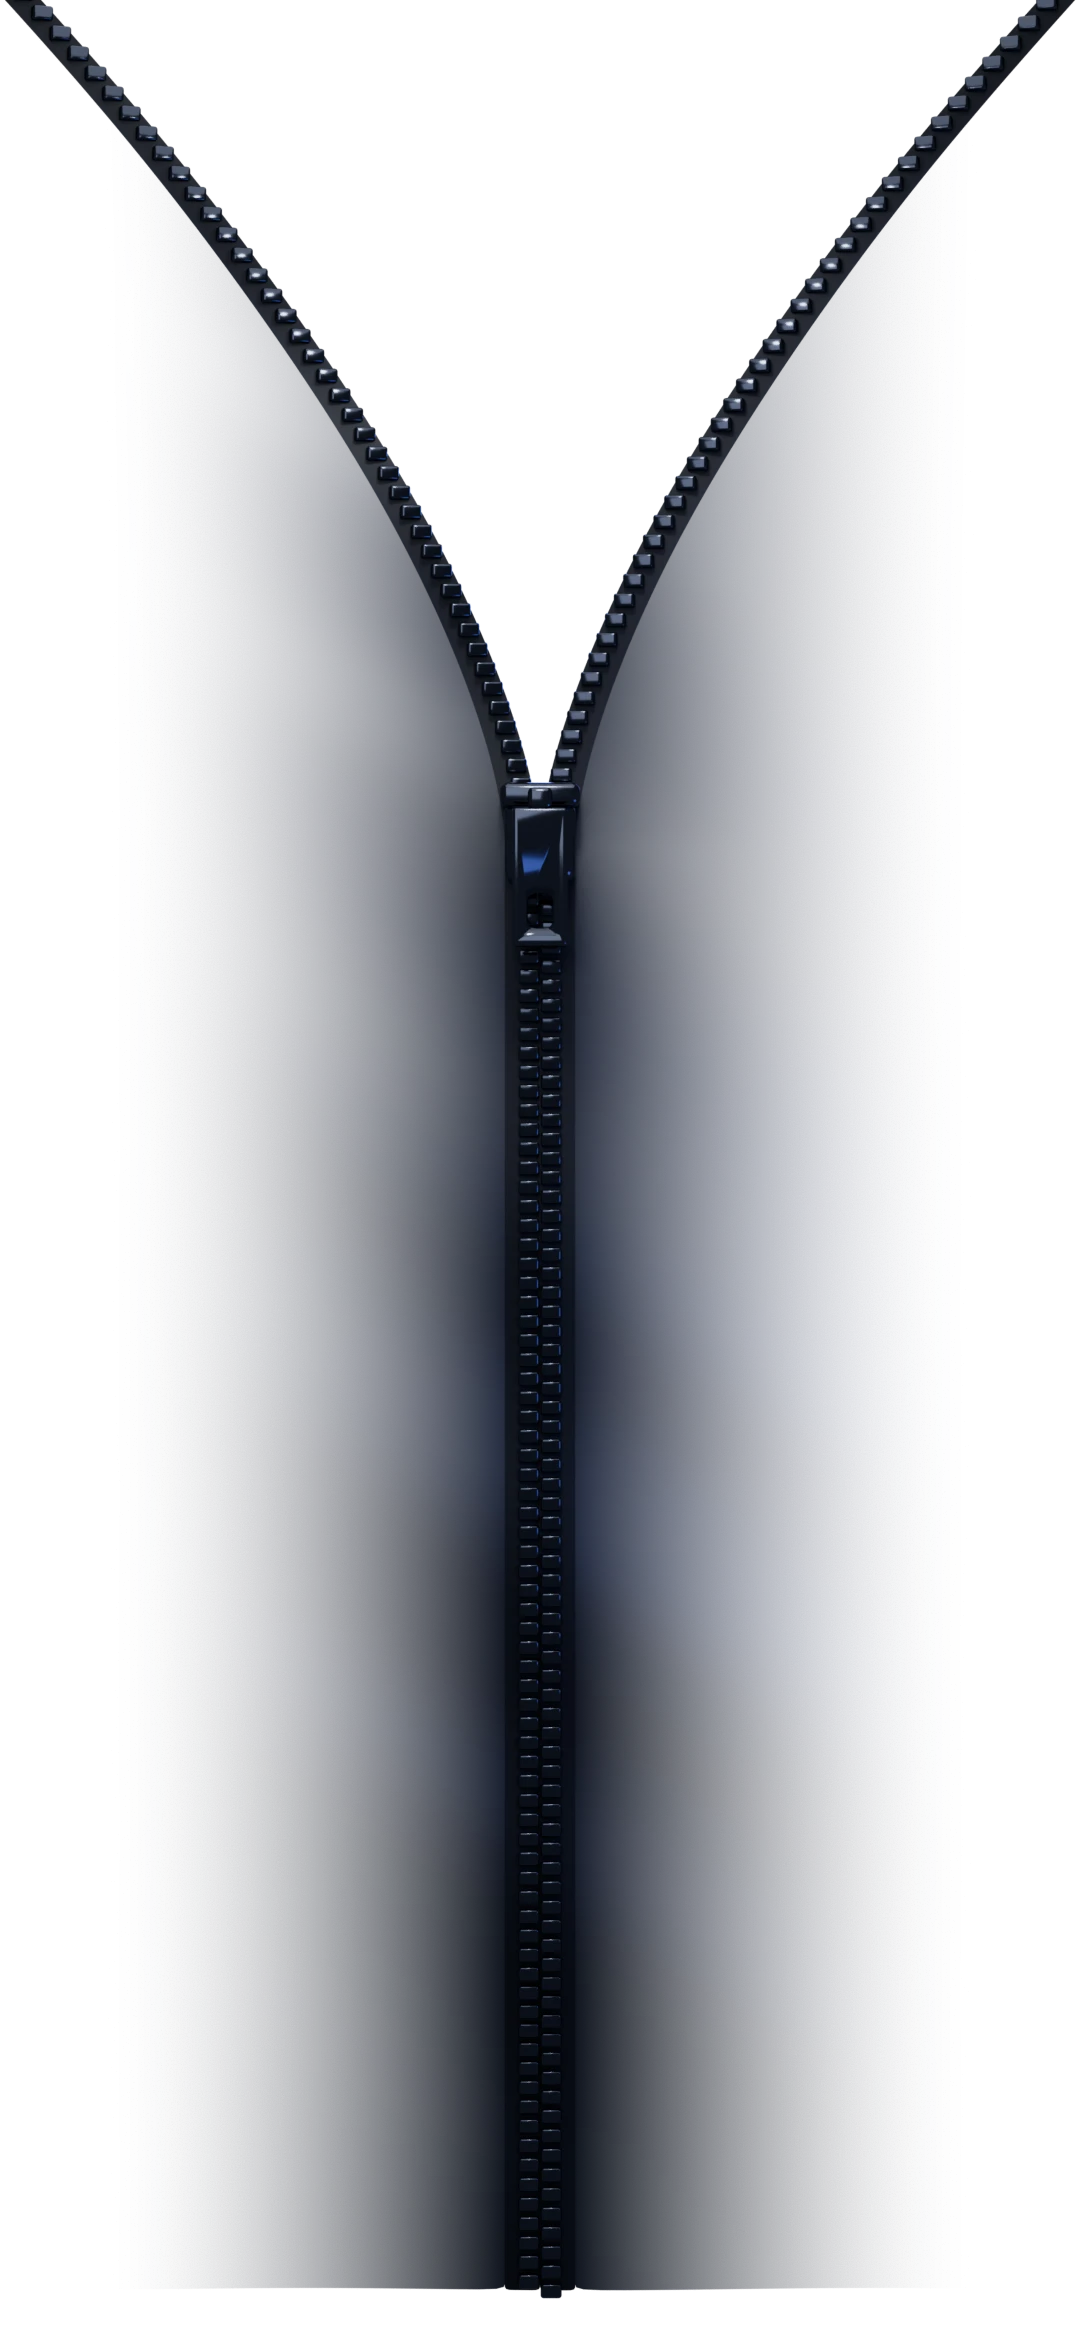
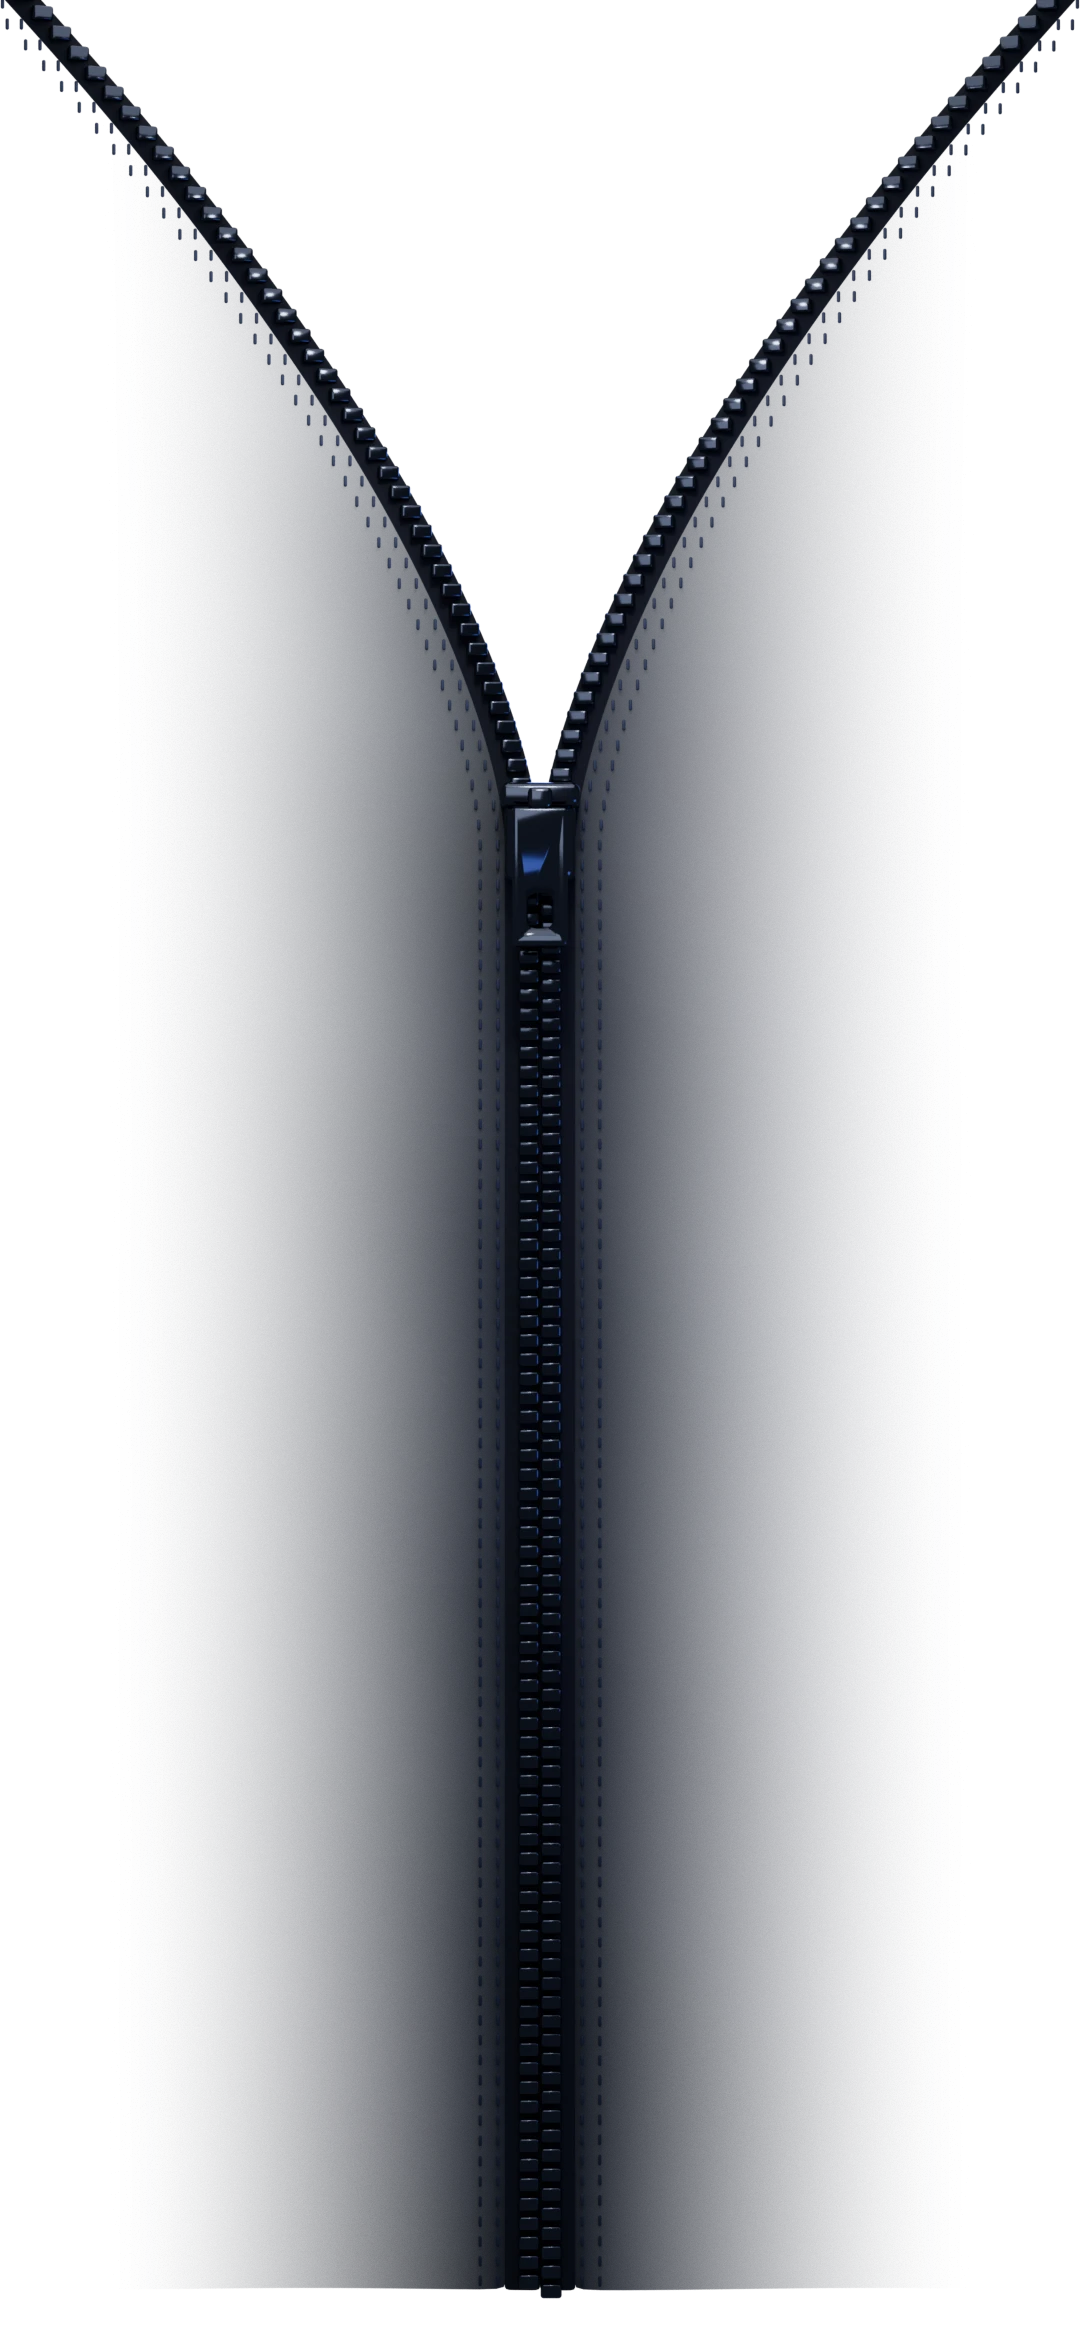
Zipper: twill weave, ribbed tape, dark cotton topstitch rows

diff --git a/tools/zipper/zipper.py b/tools/zipper/zipper.py
@@ -86,7 +86,7 @@ def mat_fabric():
     """Mist canvas: two crossed wave textures make a regular weave, a light
     noise breaks the regularity, both feed a bump. No large-scale noise, so
     nothing swims between frames."""
-    m = mat_principled("Fabric", (0.0046, 0.0056, 0.0176, 1), 0.34, 0.0, 0.7)  # ink, glossy
+    m = mat_principled("Fabric", (0.009, 0.011, 0.03, 1), 0.48, 0.0, 0.55)  # ink lifted a touch, cloth sheen
     nt = m.node_tree
     bsdf = nt.nodes["Principled BSDF"]
     if "Sheen Weight" in bsdf.inputs:
@@ -94,18 +94,20 @@ def mat_fabric():
     coord = nt.nodes.new("ShaderNodeTexCoord")
     mapping = nt.nodes.new("ShaderNodeMapping")
     mapping.inputs["Scale"].default_value = (1.0, 1.0, 1.0)
+    mapping.inputs["Rotation"].default_value = (0.0, math.radians(45.0), 0.0)  # twill runs diagonally
     warp = nt.nodes.new("ShaderNodeTexWave")
     warp.wave_type = "BANDS"
     warp.bands_direction = "X"
     warp.wave_profile = "SIN"
-    warp.inputs["Scale"].default_value = 7.0
+    warp.inputs["Scale"].default_value = 11.0
     weft = nt.nodes.new("ShaderNodeTexWave")
     weft.wave_type = "BANDS"
     weft.bands_direction = "Z"
     weft.wave_profile = "SIN"
-    weft.inputs["Scale"].default_value = 7.0
+    weft.inputs["Scale"].default_value = 11.0
     weave = nt.nodes.new("ShaderNodeMath")
-    weave.operation = "MULTIPLY"
+    weave.operation = "MULTIPLY_ADD"   # warp dominant, weft adds: reads as twill ribs
+    weave.inputs[2].default_value = 0.0
     grain = nt.nodes.new("ShaderNodeTexNoise")
     grain.inputs["Scale"].default_value = 90.0
     grain.inputs["Detail"].default_value = 2.0
@@ -116,12 +118,12 @@ def mat_fabric():
     scale.operation = "MULTIPLY"
     scale.inputs[1].default_value = 0.35
     bump = nt.nodes.new("ShaderNodeBump")
-    bump.inputs["Strength"].default_value = 0.3
-    bump.inputs["Distance"].default_value = 0.05
+    bump.inputs["Strength"].default_value = 1.0
+    bump.inputs["Distance"].default_value = 0.09
     tone = nt.nodes.new("ShaderNodeMixRGB")
     tone.blend_type = "MULTIPLY"
-    tone.inputs["Fac"].default_value = 0.18
-    tone.inputs["Color1"].default_value = (0.0046, 0.0056, 0.0176, 1)
+    tone.inputs["Fac"].default_value = 0.55
+    tone.inputs["Color1"].default_value = (0.009, 0.011, 0.03, 1)
     l = nt.links
     l.new(coord.outputs["Object"], mapping.inputs["Vector"])
     l.new(mapping.outputs["Vector"], warp.inputs["Vector"])
@@ -129,6 +131,7 @@ def mat_fabric():
     l.new(mapping.outputs["Vector"], grain.inputs["Vector"])
     l.new(warp.outputs["Fac"], weave.inputs[0])
     l.new(weft.outputs["Fac"], weave.inputs[1])
+    weave.inputs[1].default_value = 0.6
     l.new(grain.outputs["Fac"], scale.inputs[0])
     l.new(weave.outputs["Value"], mix.inputs[0])
     l.new(scale.outputs["Value"], mix.inputs[1])
@@ -200,7 +203,14 @@ clean()
 scene = bpy.context.scene
 
 fabric_m = mat_fabric()
-tape_m = mat_principled("Tape", NIGHT, 0.6, 0.0, 0.4)
+tape_m = mat_principled("Tape", (0.004, 0.0045, 0.012, 1), 0.55, 0.0, 0.45)
+_tn = tape_m.node_tree
+_tc = _tn.nodes.new("ShaderNodeTexCoord"); _tw = _tn.nodes.new("ShaderNodeTexWave")
+_tw.wave_type = "BANDS"; _tw.bands_direction = "Z"; _tw.inputs["Scale"].default_value = 18.0
+_tb = _tn.nodes.new("ShaderNodeBump"); _tb.inputs["Strength"].default_value = 0.6; _tb.inputs["Distance"].default_value = 0.06
+_tn.links.new(_tc.outputs["Object"], _tw.inputs["Vector"]); _tn.links.new(_tw.outputs["Fac"], _tb.inputs["Height"])
+_tn.links.new(_tb.outputs["Normal"], _tn.nodes["Principled BSDF"].inputs["Normal"])
+thread_m = mat_principled("Thread", (0.03, 0.036, 0.07, 1), 0.62, 0.0, 0.35)   # dark cotton topstitch, a shade lighter than the cloth
 metal_m = mat_principled("Metal", GUNMETAL, 0.14, 1.0, 0.5)
 slider_m = mat_principled("Slider", (0.06, 0.065, 0.085, 1), 0.12, 1.0, 0.5)
 
@@ -231,6 +241,22 @@ for side in (1, -1):
         t["side"] = side
         t["z0"] = z
         teeth.append(t)
+
+# topstitching: two rows of short thread segments along each tape edge
+stitches = []
+STITCH_ROWS = (TAPE_W + 0.45, TAPE_W + 1.6)
+STITCH_PITCH = 1.3
+if not NO_FABRIC:
+    for side in (1, -1):
+        for row_x in STITCH_ROWS:
+            n = int((Z_TOP - Z_BOT) / STITCH_PITCH)
+            for i in range(n):
+                z = Z_BOT + 0.6 + i * STITCH_PITCH
+                st = box(f"Stitch_{side}_{row_x:.1f}_{i}", 0.2, 0.18, 0.7, 0.08, thread_m, 2)
+                st["side"] = side
+                st["z0"] = z
+                st["x0"] = row_x
+                stitches.append(st)
 
 # slider: body, cap, pull tab with a hole
 slider = bpy.data.objects.new("Slider", None)
@@ -327,6 +353,13 @@ def apply_frame(scn):
         dz = 0.5
         slope = (open_amount(z + dz, t) - open_amount(z - dz, t)) / (2 * dz)
         tooth.rotation_euler = (0, 0, -side * math.atan(slope) * 0.6)
+    for st in stitches:
+        side = st["side"]
+        z = st["z0"]
+        o = open_amount(z, t)
+        falloff = 1.0 - min(1.0, (st["x0"] - TAPE_W) / 50.0) * 0.35
+        y = depth_amount(z, t) * falloff + 0.35 * math.sin(z * 0.28 + st["x0"] * side * 0.17)
+        st.location = (side * (st["x0"] + o * falloff), y - 0.12, z)
     slider.location = (0, 0.35 * math.sin(zs * 0.28), zs)
 
 bpy.app.handlers.frame_change_pre.clear()
